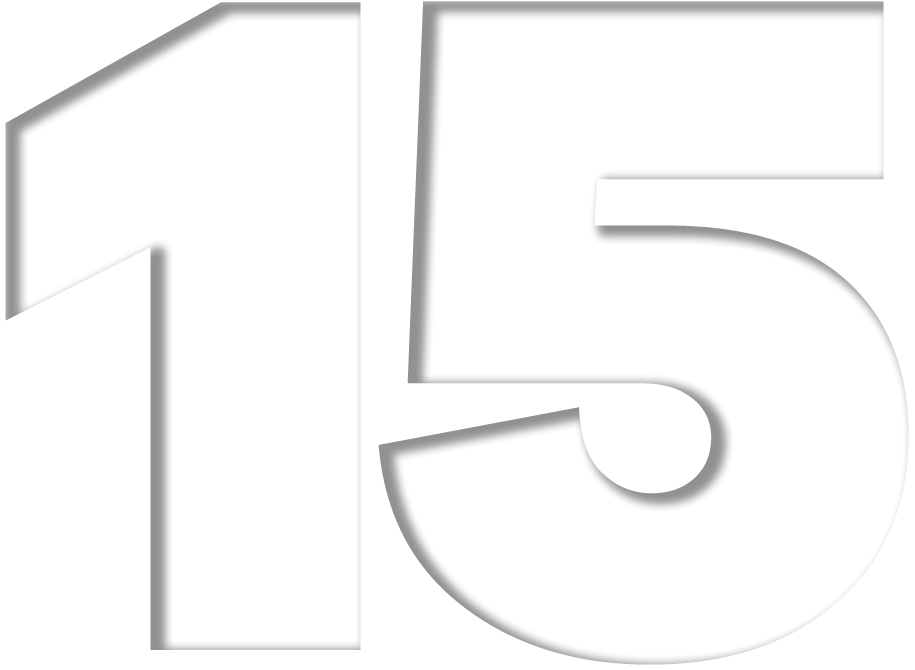
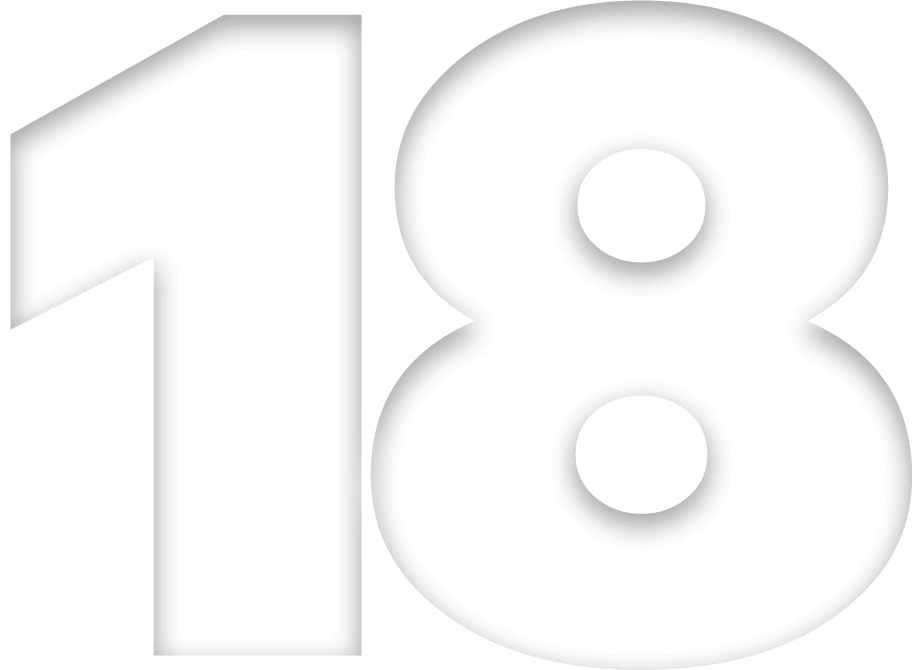
Updated years experience screen

diff --git a/src/index.html b/src/index.html
@@ -109,13 +109,13 @@ ishome: true
                 <li class="montage layer" data-depth="0.25"><img src="{{ "/img/all-the-things.jpg" | prepend: site.baseurl }}" alt="" /></li>
               </ul>
               <div id="history-text">
-                <h3><span class="hidden">15 </span>years</h3>
+                <h3><span class="hidden">18 </span>years</h3>
               </div>
             </div> <!-- .col-half -->
             <div id="work-panel-content" class="col col-half">
               <p class="fancy-pants-font">At the heart of our work lies our diverse range of clients.</p>
-              <p>In the last 15 years we have worked on over 1,400 projects for about 350 clients.</p>
-              <a href="{{ "/case-studies" | prepend: site.baseurl }}" class="drop-btn orange-bg">View our portfolio</a>
+              <p>In the last 18 years we have worked on over 1,400 projects for about 350 clients.</p>
+              <a href="{{ "/case-studies" | prepend: site.baseurl }}" class="drop-btn orange-bg">View our case studies</a>
             </div> <!-- .col-half -->
           </div> <!-- .cols-wrap -->
         </div> <!-- .faux-table-cell -->
